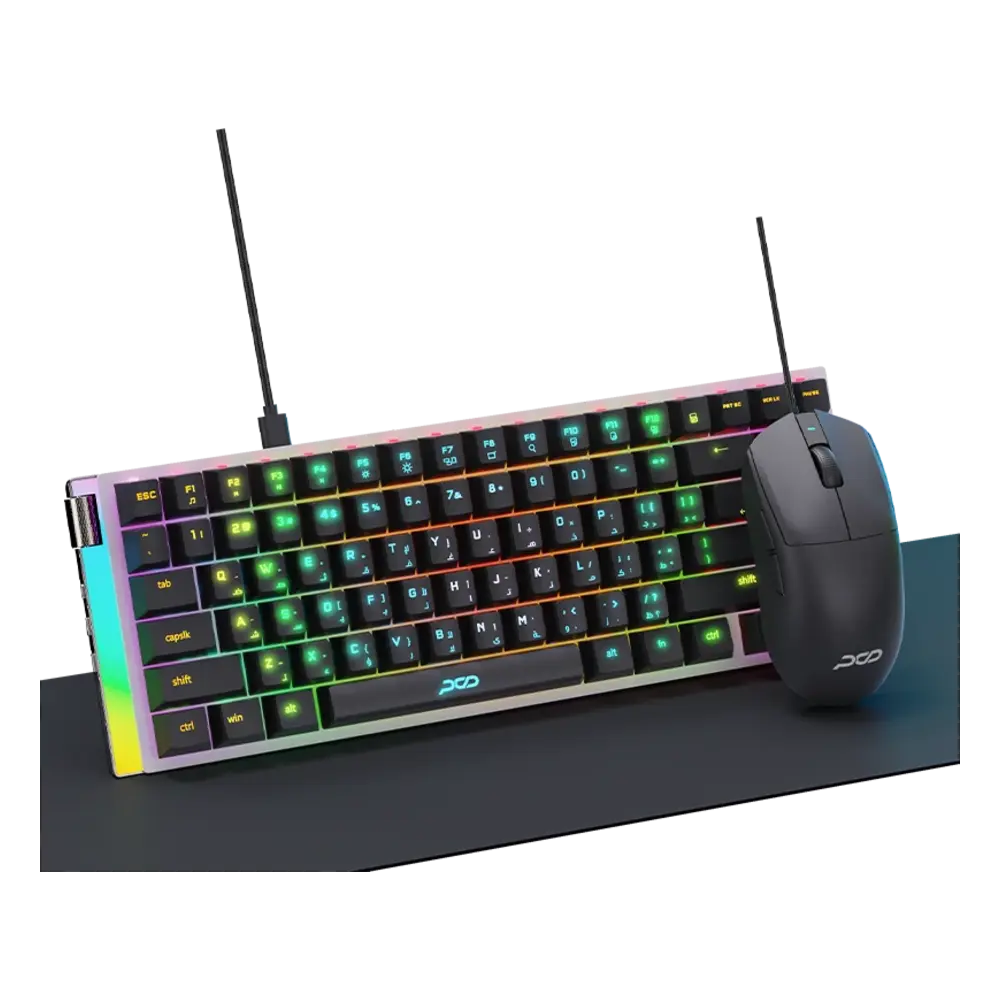
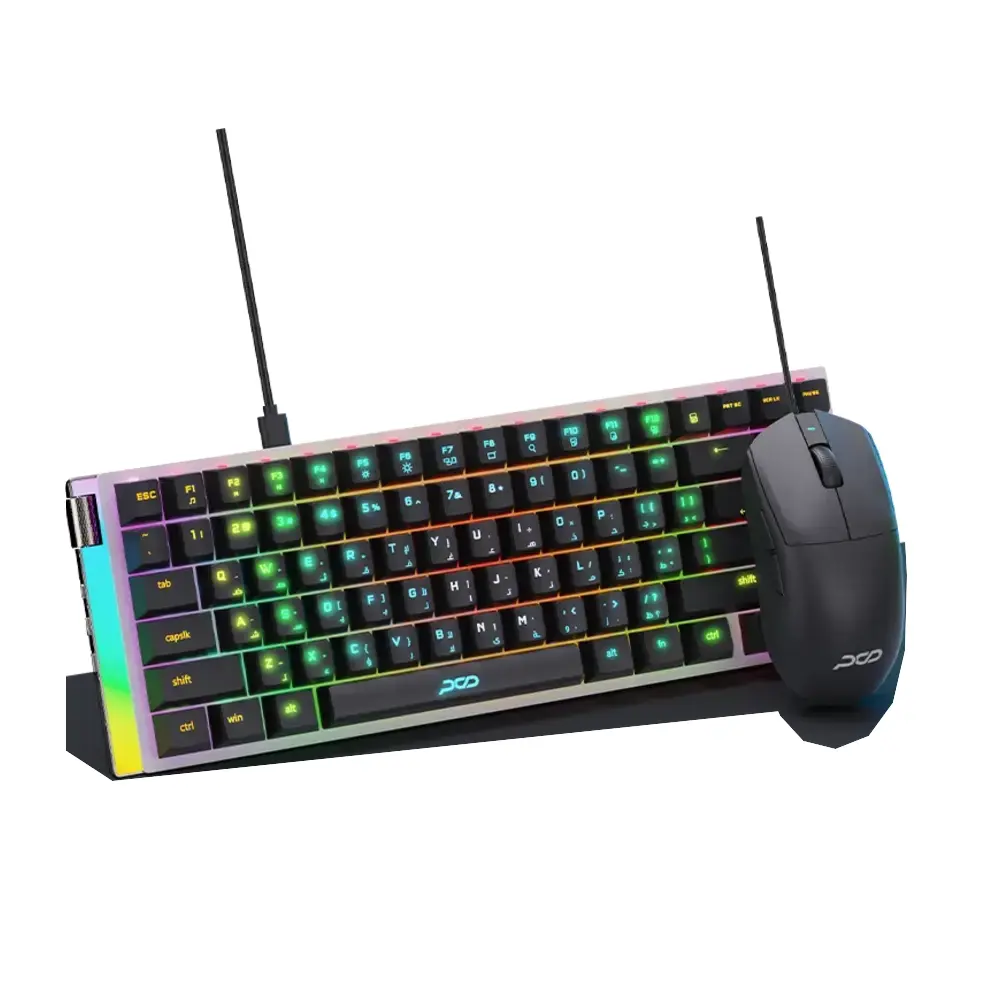
Normalize keyboard and mouse image backgrounds

Changed region(s): [[0.031, 0.527, 0.961, 0.899]]

diff --git a/PROJECT_STATUS.md b/PROJECT_STATUS.md
@@ -982,3 +982,19 @@ After owner review, continue with photos for other categories. Laptops after com
 - Все пять новых/заменённых файлов сохранены локально в формате WebP размером 1000×1000; клавиатуры полностью помещаются на холсте, пропорции сохранены, внешняя подложка удалена там, где это было возможно без повреждения устройства.
 - Проверены пути в `products.json`, карточки `rgw_page_keyboards.html` и галерея `product.html?id=...`; `product.html` и `product.js` не изменялись.
 - Названия, цены, характеристики, ID, SKU, `price.csv`, фильтры, сортировка, дизайн карточек и фотографии остальных категорий не изменялись.
+
+## Белый фон клавиатур и мышей; точные комплекты MK470/MK220 (2026-11-08)
+
+- Проверены все 38 реально подключённых изображений двух категорий: 21 файл клавиатур (20 основных и дополнительный кадр `keyboards-19/02.webp`) и 17 файлов мышей (14 основных и три дополнительных кадра `mice-3/02.webp`–`04.webp`).
+- Изменены 13 WebP-файлов. Для существующих изображений сохранены исходные холсты и визуальный масштаб; фон приведён к однотонному белому `#FFFFFF`, без изменений CSS, JavaScript и карточек.
+- Для `keyboards-1` и `keyboards-15` удалены тёмные предметные подложки, сохранены клавиатуры, мыши, антенны и RGB-детали.
+- Для `keyboards-6` (Logitech MK470) и `keyboards-12` (Logitech MK220) заменены неправильные одиночные кадры на точные официальные фотографии Logitech, где одновременно видны соответствующие клавиатура и мышь. Файлы сохранены как `main.webp` на холсте 1000×1000 без обрезки.
+- Нормализованы фоны `keyboards-11`, `keyboards-13`, `keyboards-14`, `keyboards-17`, оба кадра `keyboards-19` и дополнительные кадры `mice-3`. Остальные уже соответствовали стандарту и не перекодировались.
+- Три товара мышей без подключённого изображения (`mice-1`, `mice-2`, `mice-9`) оставлены заглушками: для них в данных нет рабочего файла, случайные модели не подставлялись.
+- `products.json`, `rgw_page_keyboards.html`, `rgw_page_mice.html`, `product.html`, `product.js`, цены, характеристики, ID, SKU, фильтры и другие категории не изменялись.
+
+### Проверки этапа
+
+- Все 38 локальных файлов проверены как декодируемые WebP; у обработанных файлов четыре угловых пикселя имеют `#FFFFFF`, прозрачных прямоугольных подложек нет.
+- Для двух заменённых комплектов проверено точное соответствие официальным страницам Logitech MK470 и MK220; клавиатура и мышь полностью помещаются в кадр.
+- Проверены существующие пути в `products.json`, включая дополнительные кадры галерей; структура каталога и универсальная галерея не изменялись.
